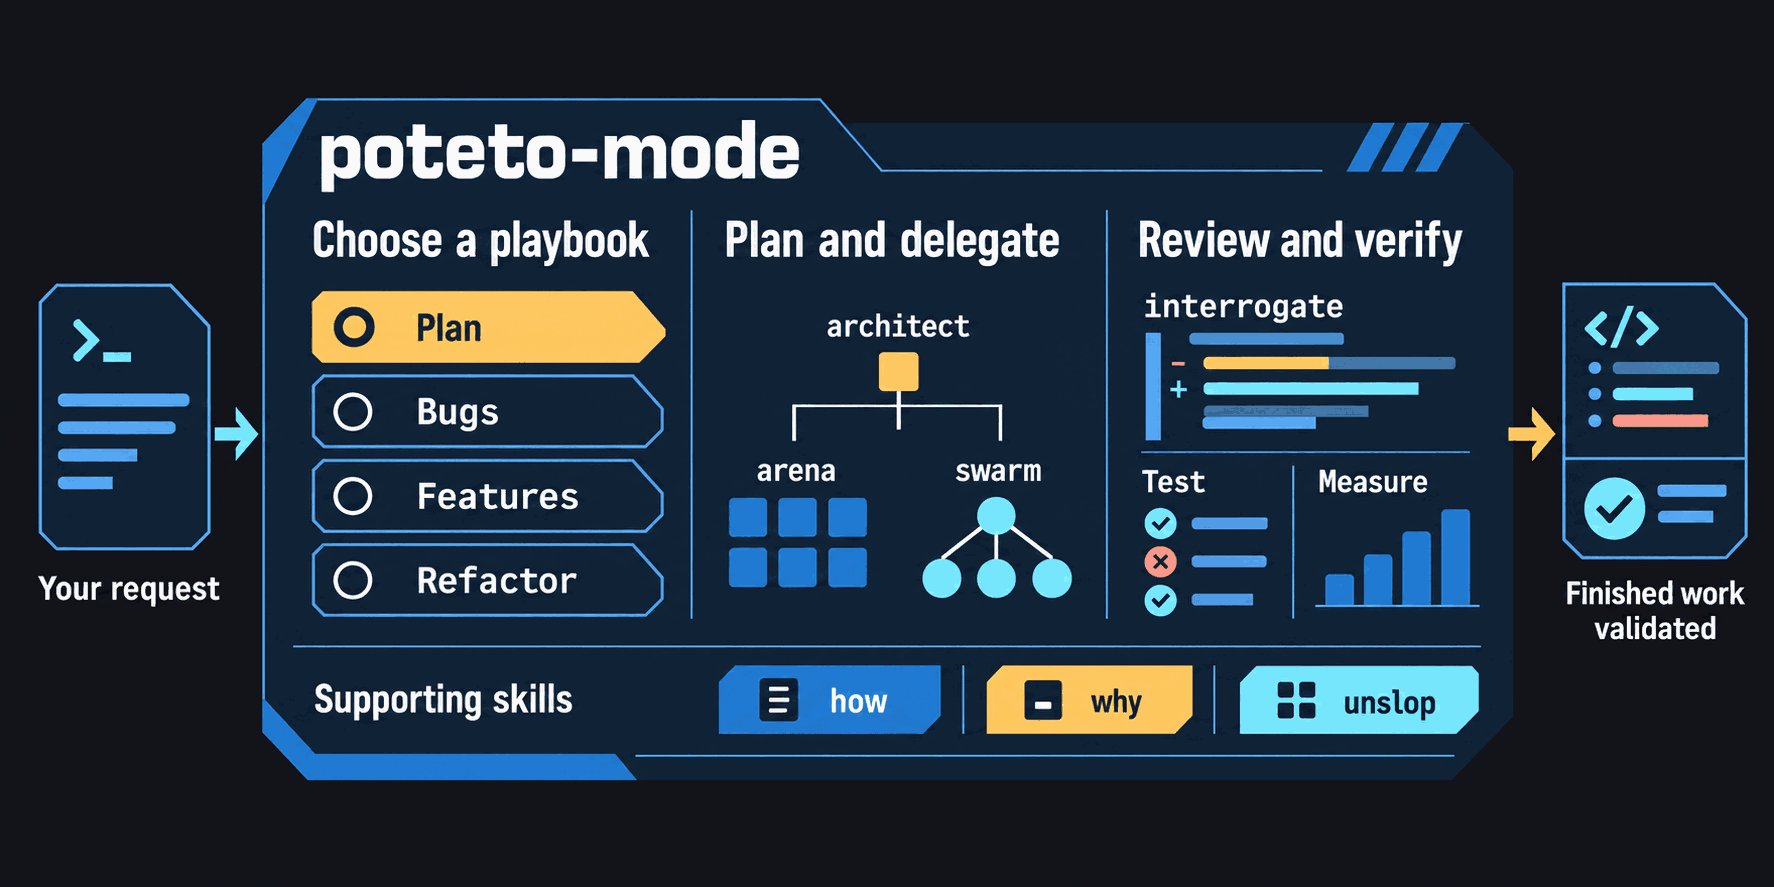
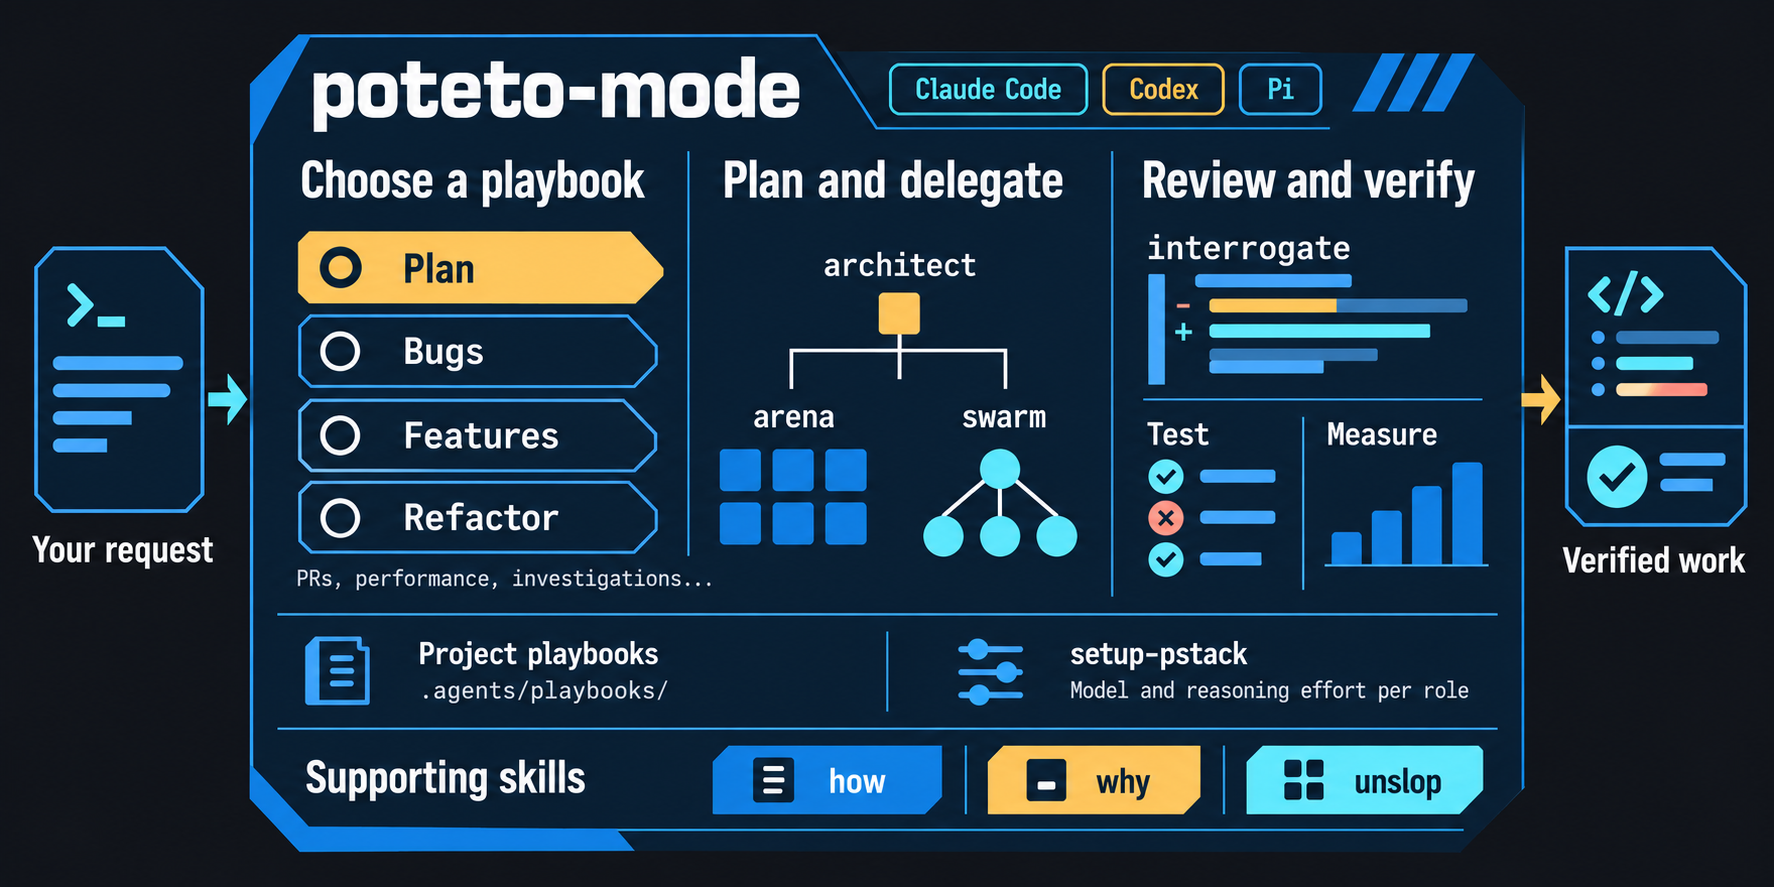
Update README overview for Pi and workflow customization

diff --git a/README.md b/README.md
@@ -50,7 +50,7 @@ For a bug, it reproduces the failure, uses `how` and `why` to investigate, deleg
 
 [Other playbooks](plugins/pstack/skills/poteto-mode/SKILL.md#playbooks) cover planning, features, refactoring, performance issues, investigations, prototypes, PR maintenance, shipping, and longer projects.
 
-![A request enters poteto-mode. Playbook options include Plan, Bugs, Features, and Refactor. Planning can use architect, arena, or swarm; review and verification can use interrogate, tests, and measurements. Supporting skills include how, why, and unslop. The output is Finished work validated.](assets/pstack-overview.png)
+![poteto-mode on Claude Code, Codex, and Pi turns a request into verified work. Choose a playbook, plan and delegate with architect, arena, or swarm, then review and verify with interrogate, tests, and measurements. Project playbooks customize the workflow, and setup-pstack configures the model and reasoning effort per role. Supporting skills include how, why, and unslop.](assets/pstack-overview.png)
 
 ## Details
 
